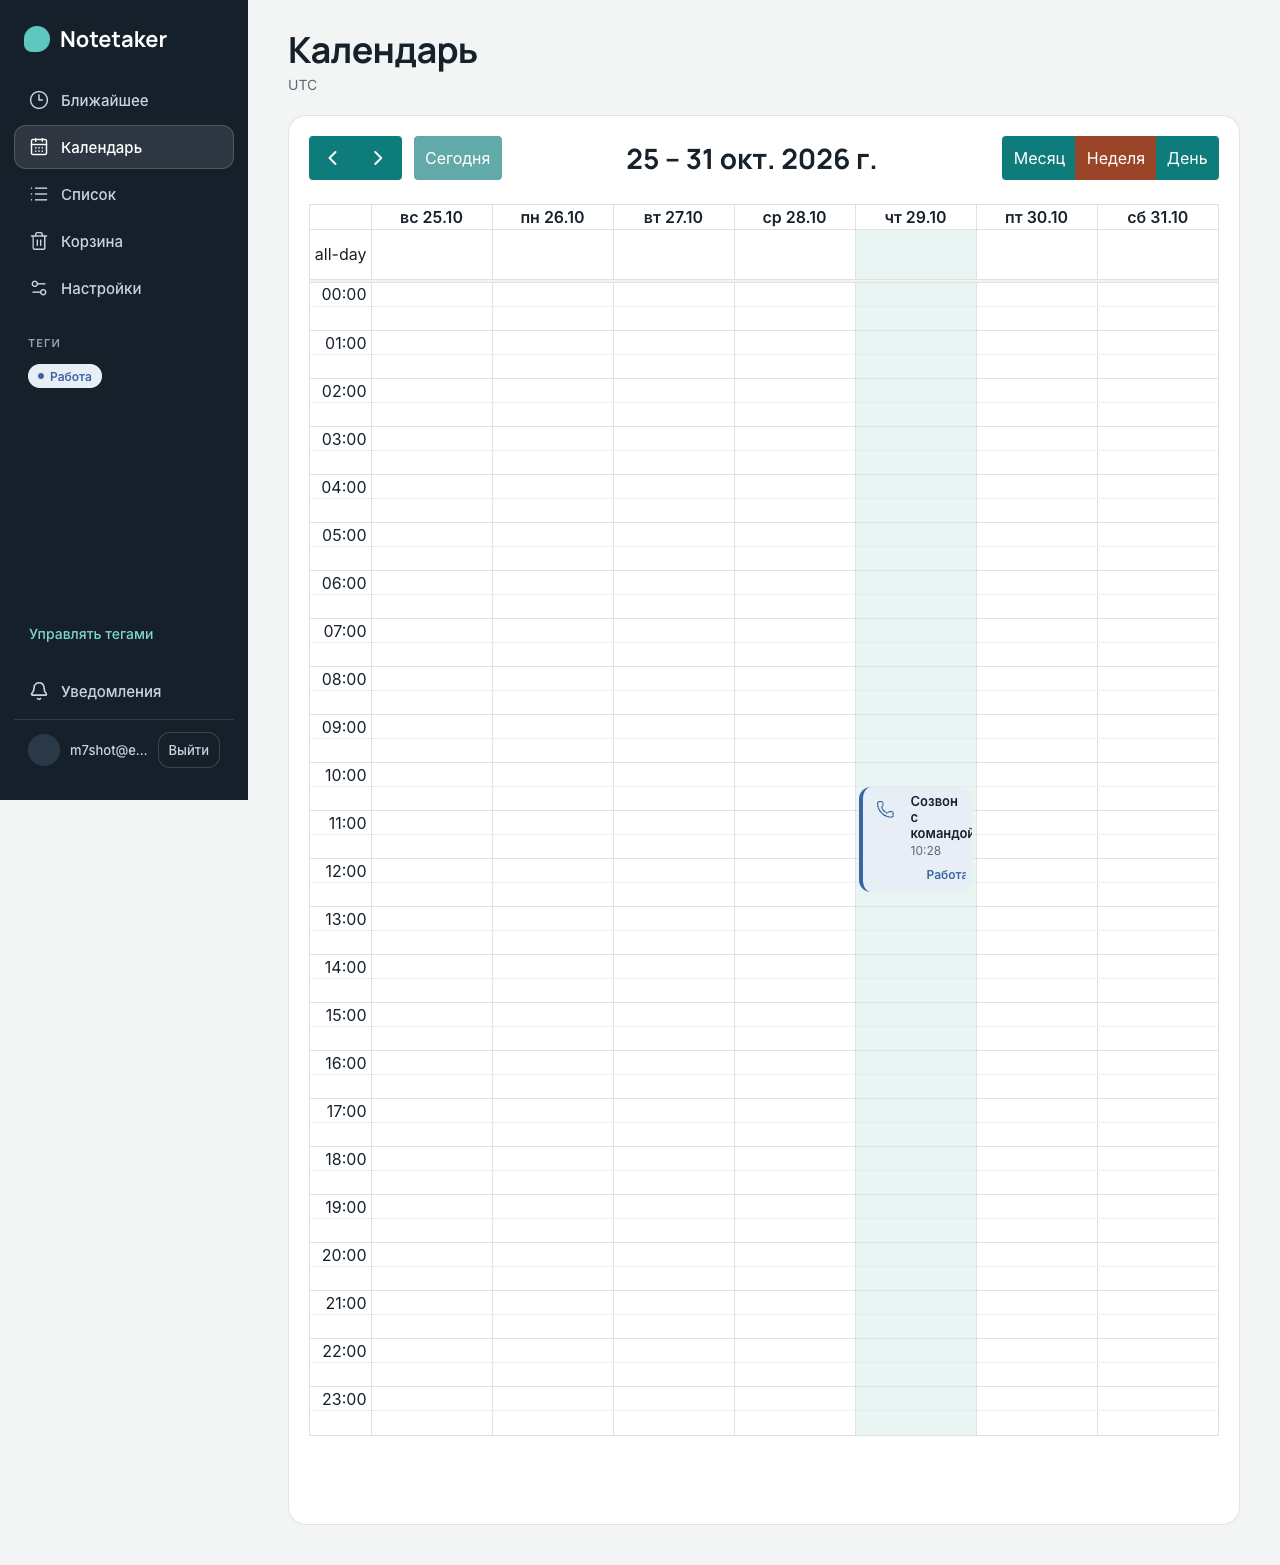
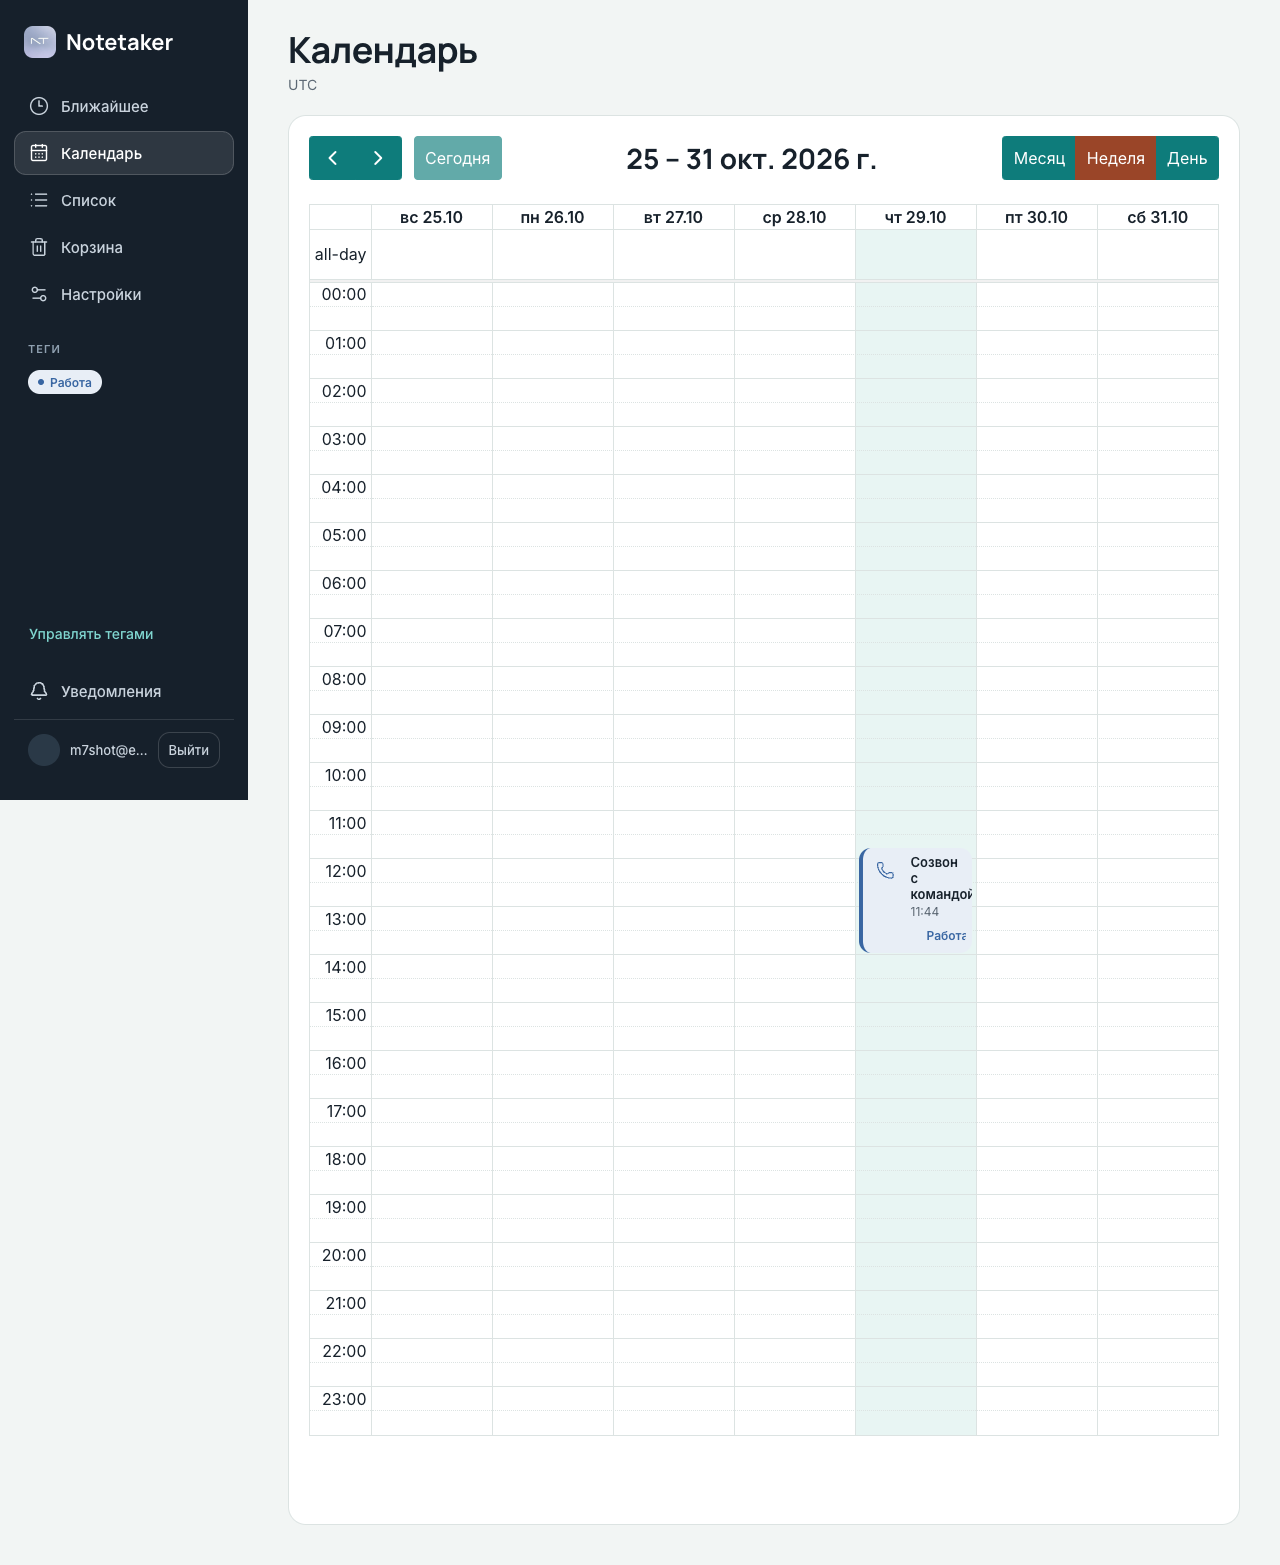
M7: логотип NT вместо цветного кружка у Notetaker

Changed region(s): [[0.0, 0.0613, 0.125, 0.276], [0.6875, 0.4907, 0.75, 0.6134], [0.0, 0.0, 0.125, 0.0307]]

diff --git a/web/src/App.tsx b/web/src/App.tsx
@@ -1,6 +1,7 @@
 import { FormEvent, useCallback, useEffect, useState } from "react";
 import { Navigate, Route, Routes } from "react-router-dom";
 import { useQuery, useQueryClient } from "@tanstack/react-query";
+import logoNt from "./assets/logo-nt.jpg";
 import { api, RealtimeEvent, User } from "./api";
 import { AppSidebar } from "./components/AppSidebar";
 import { MobileNav } from "./components/MobileNav";
@@ -74,7 +75,10 @@ function AuthScreen({ onDone }: { onDone: (user: User) => void }) {
 
   return (
     <main className="page auth">
-      <h1>Notetaker</h1>
+      <div className="auth-brand">
+        <img className="brand-mark" src={logoNt} alt="" width={32} height={32} />
+        <h1>Notetaker</h1>
+      </div>
       <p className="muted">Заметки, календарь, ближайшее.</p>
       <form onSubmit={submit} className="card">
         <label>

diff --git a/web/src/components/AppSidebar.tsx b/web/src/components/AppSidebar.tsx
@@ -8,6 +8,7 @@ import {
   Settings2,
   Trash2,
 } from "lucide-react";
+import logoNt from "../assets/logo-nt.jpg";
 import { api } from "../api";
 import { TagPill } from "./TagPill";
 
@@ -39,7 +40,7 @@ export function AppSidebar({
   return (
     <aside className="app-sidebar" aria-label="Навигация" data-testid="app-sidebar">
       <div className="brand">
-        <span className="brand-mark" aria-hidden="true" />
+        <img className="brand-mark" src={logoNt} alt="" width={32} height={32} />
         <span className="brand-name">Notetaker</span>
       </div>
 

diff --git a/web/src/styles.css b/web/src/styles.css
@@ -59,7 +59,15 @@ h2 {
   text-align: center;
 }
 
+.auth-brand {
+  display: flex;
+  gap: 10px;
+  align-items: center;
+  justify-content: center;
+}
+
 .page.auth h1 {
+  margin: 0;
   font-family: var(--font-display);
   font-weight: 800;
 }
@@ -167,11 +175,12 @@ button.link {
 }
 
 .brand-mark {
-  width: 26px;
-  height: 26px;
-  border-radius: 50% 50% 50% 8px;
-  background: #5ec8c0;
+  width: 32px;
+  height: 32px;
+  border-radius: 9px;
+  object-fit: cover;
   flex: none;
+  display: block;
 }
 
 .brand-name {

diff --git a/docs/FRONTEND.md b/docs/FRONTEND.md
@@ -54,6 +54,7 @@
 - Левая панель 248px, фон `--sidebar`, высота экрана. Структура сверху вниз: логотип-слово «Notetaker»; пункты Ближайшее, Календарь,
   Список, Корзина (со счётчиком), Настройки; блок «Теги» (пилюля и счётчик, клик открывает «Список» с фильтром; ссылка «Управлять тегами»);
   внизу закреплены «Уведомления» (колокольчик и счётчик) и строка пользователя: адрес почты с обрезкой по ширине и кнопка «Выйти».
+- Логотип рядом с «Notetaker»: файл `web/src/assets/logo-nt.jpg`, 32×32px, скругление 9px, `object-fit: cover`, `alt=""` (левая панель и экран входа).
 - Жёсткие правила вёрстки: панель не прокручивается по горизонтали (`overflow-x: hidden`, `min-width: 0` у вложенных блоков);
   при нехватке высоты прокручивается только блок тегов; нижняя часть («Уведомления», «Выйти») всегда видна целиком.
 - Список уведомлений НЕ живёт внутри левой панели. Нажатие на «Уведомления» открывает всплывающую панель шириной 360px

diff --git a/docs/CREDITS.md b/docs/CREDITS.md
@@ -27,6 +27,12 @@
 
 Обновлять, если по ходу работы зависимости добавились или заменились.
 
+## Ассеты
+
+| Ассет | Источник |
+|---|---|
+| `web/src/assets/logo-nt.jpg` | логотип — файл автора проекта |
+
 ## Код, написанный с агентом
 
 Основная часть кода написана с участием AI-агента (см. `docs/TOOLING.md`). Экспорты чатов Cursor — в `docs/sessions/`.
